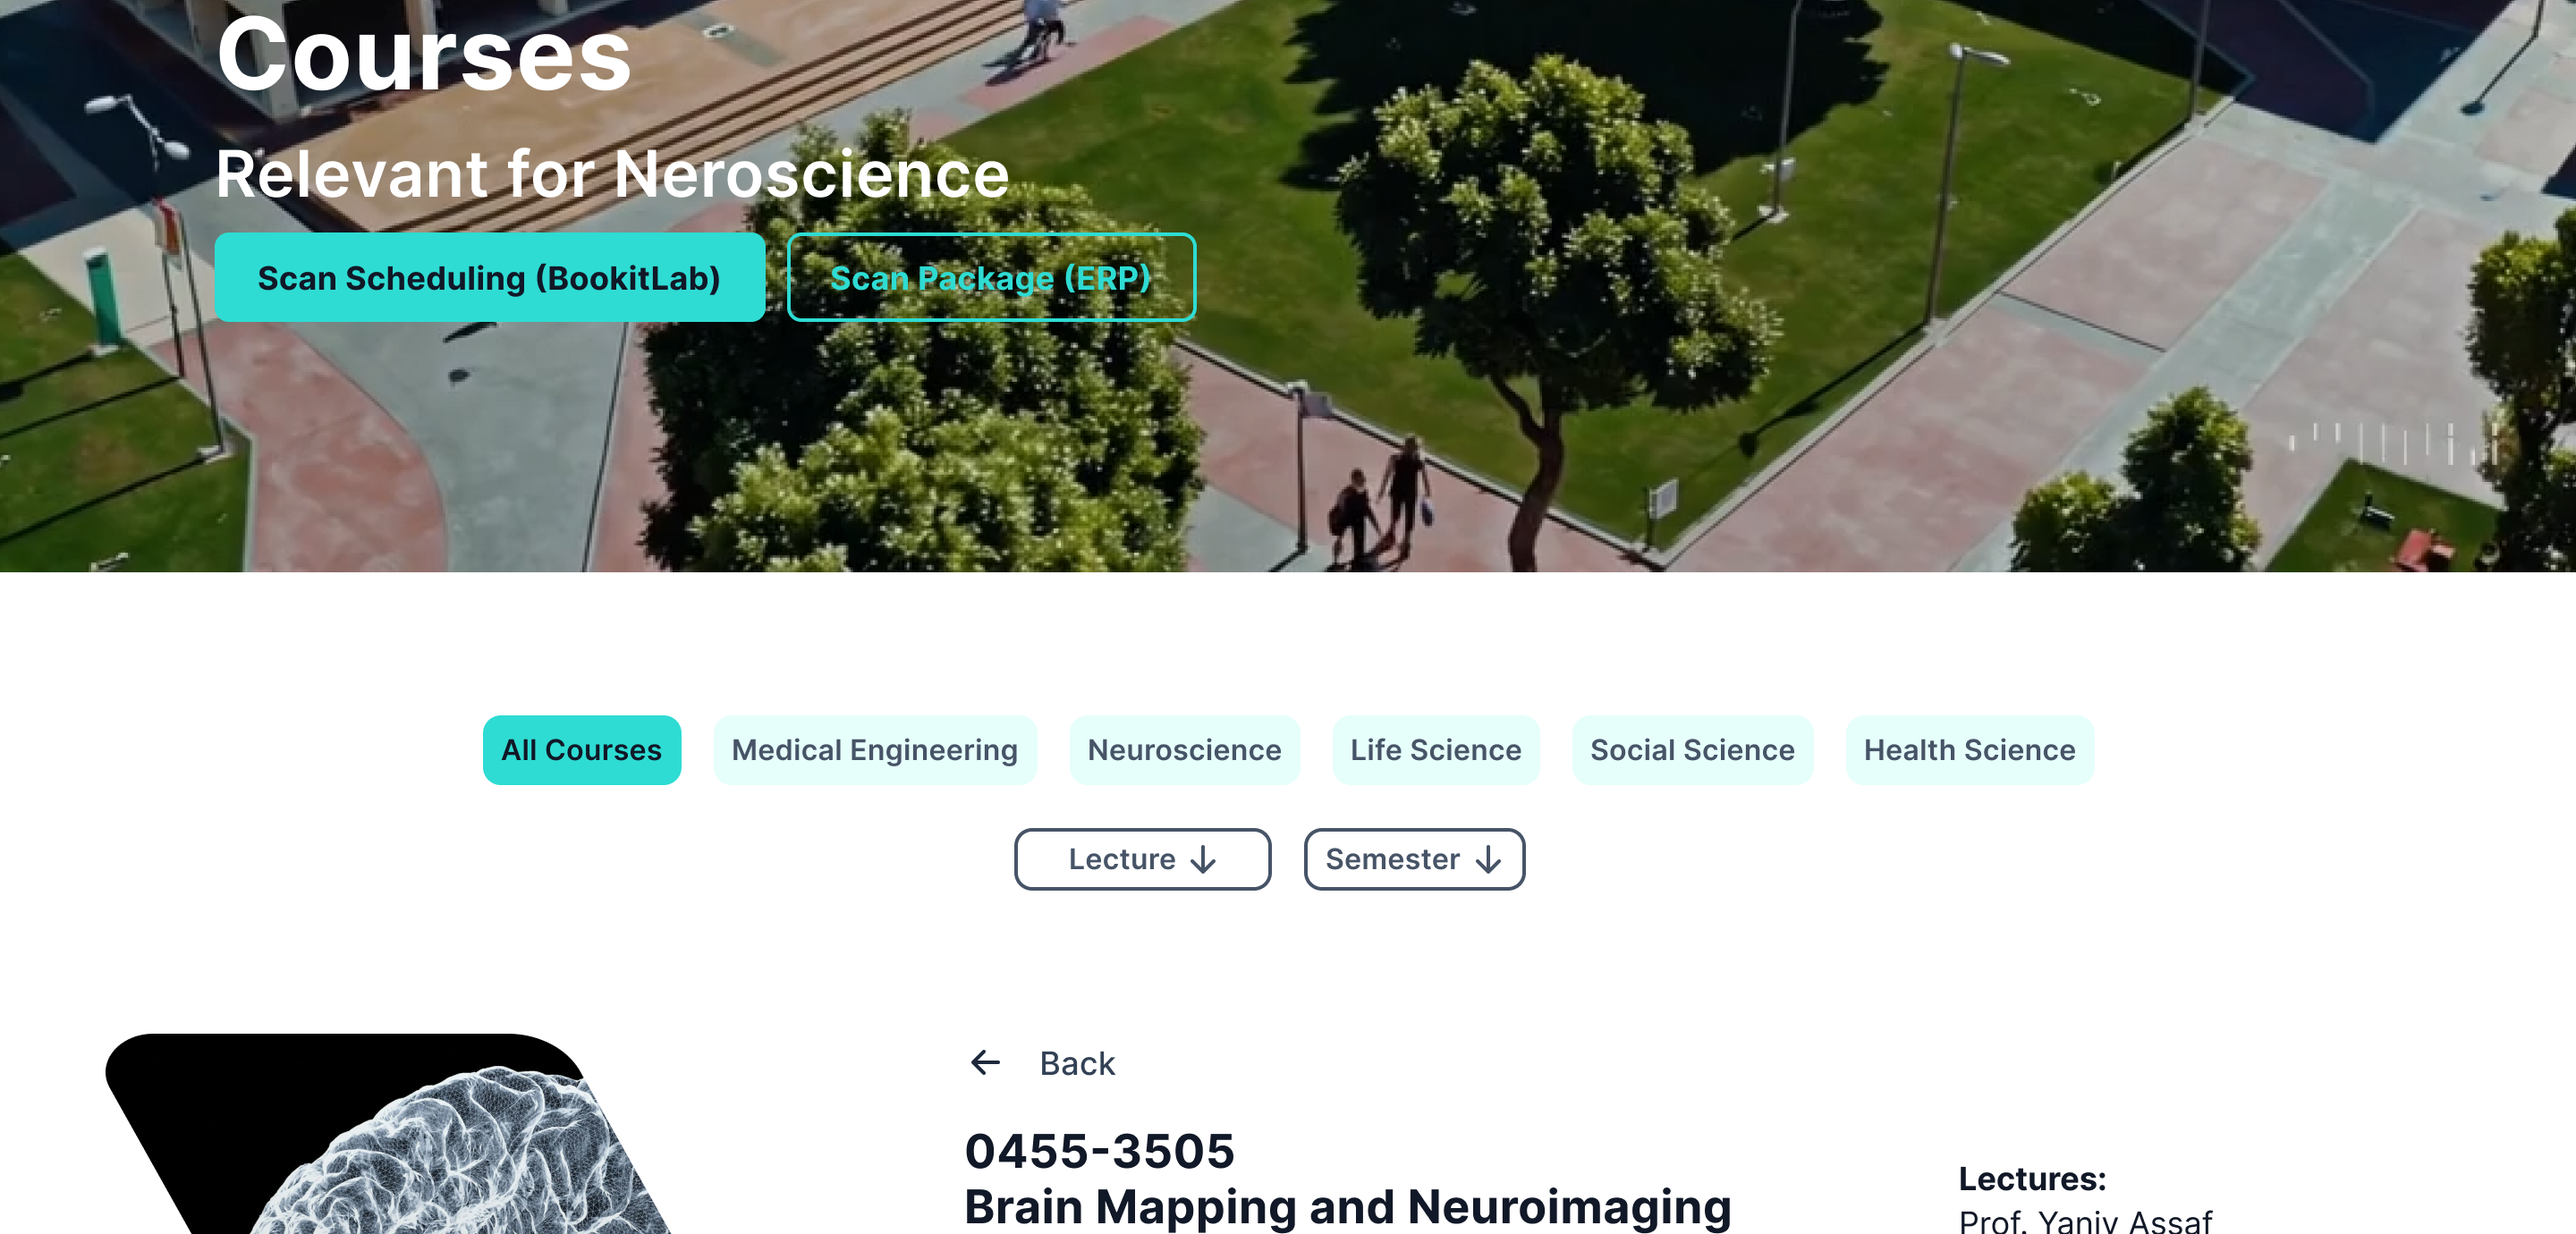
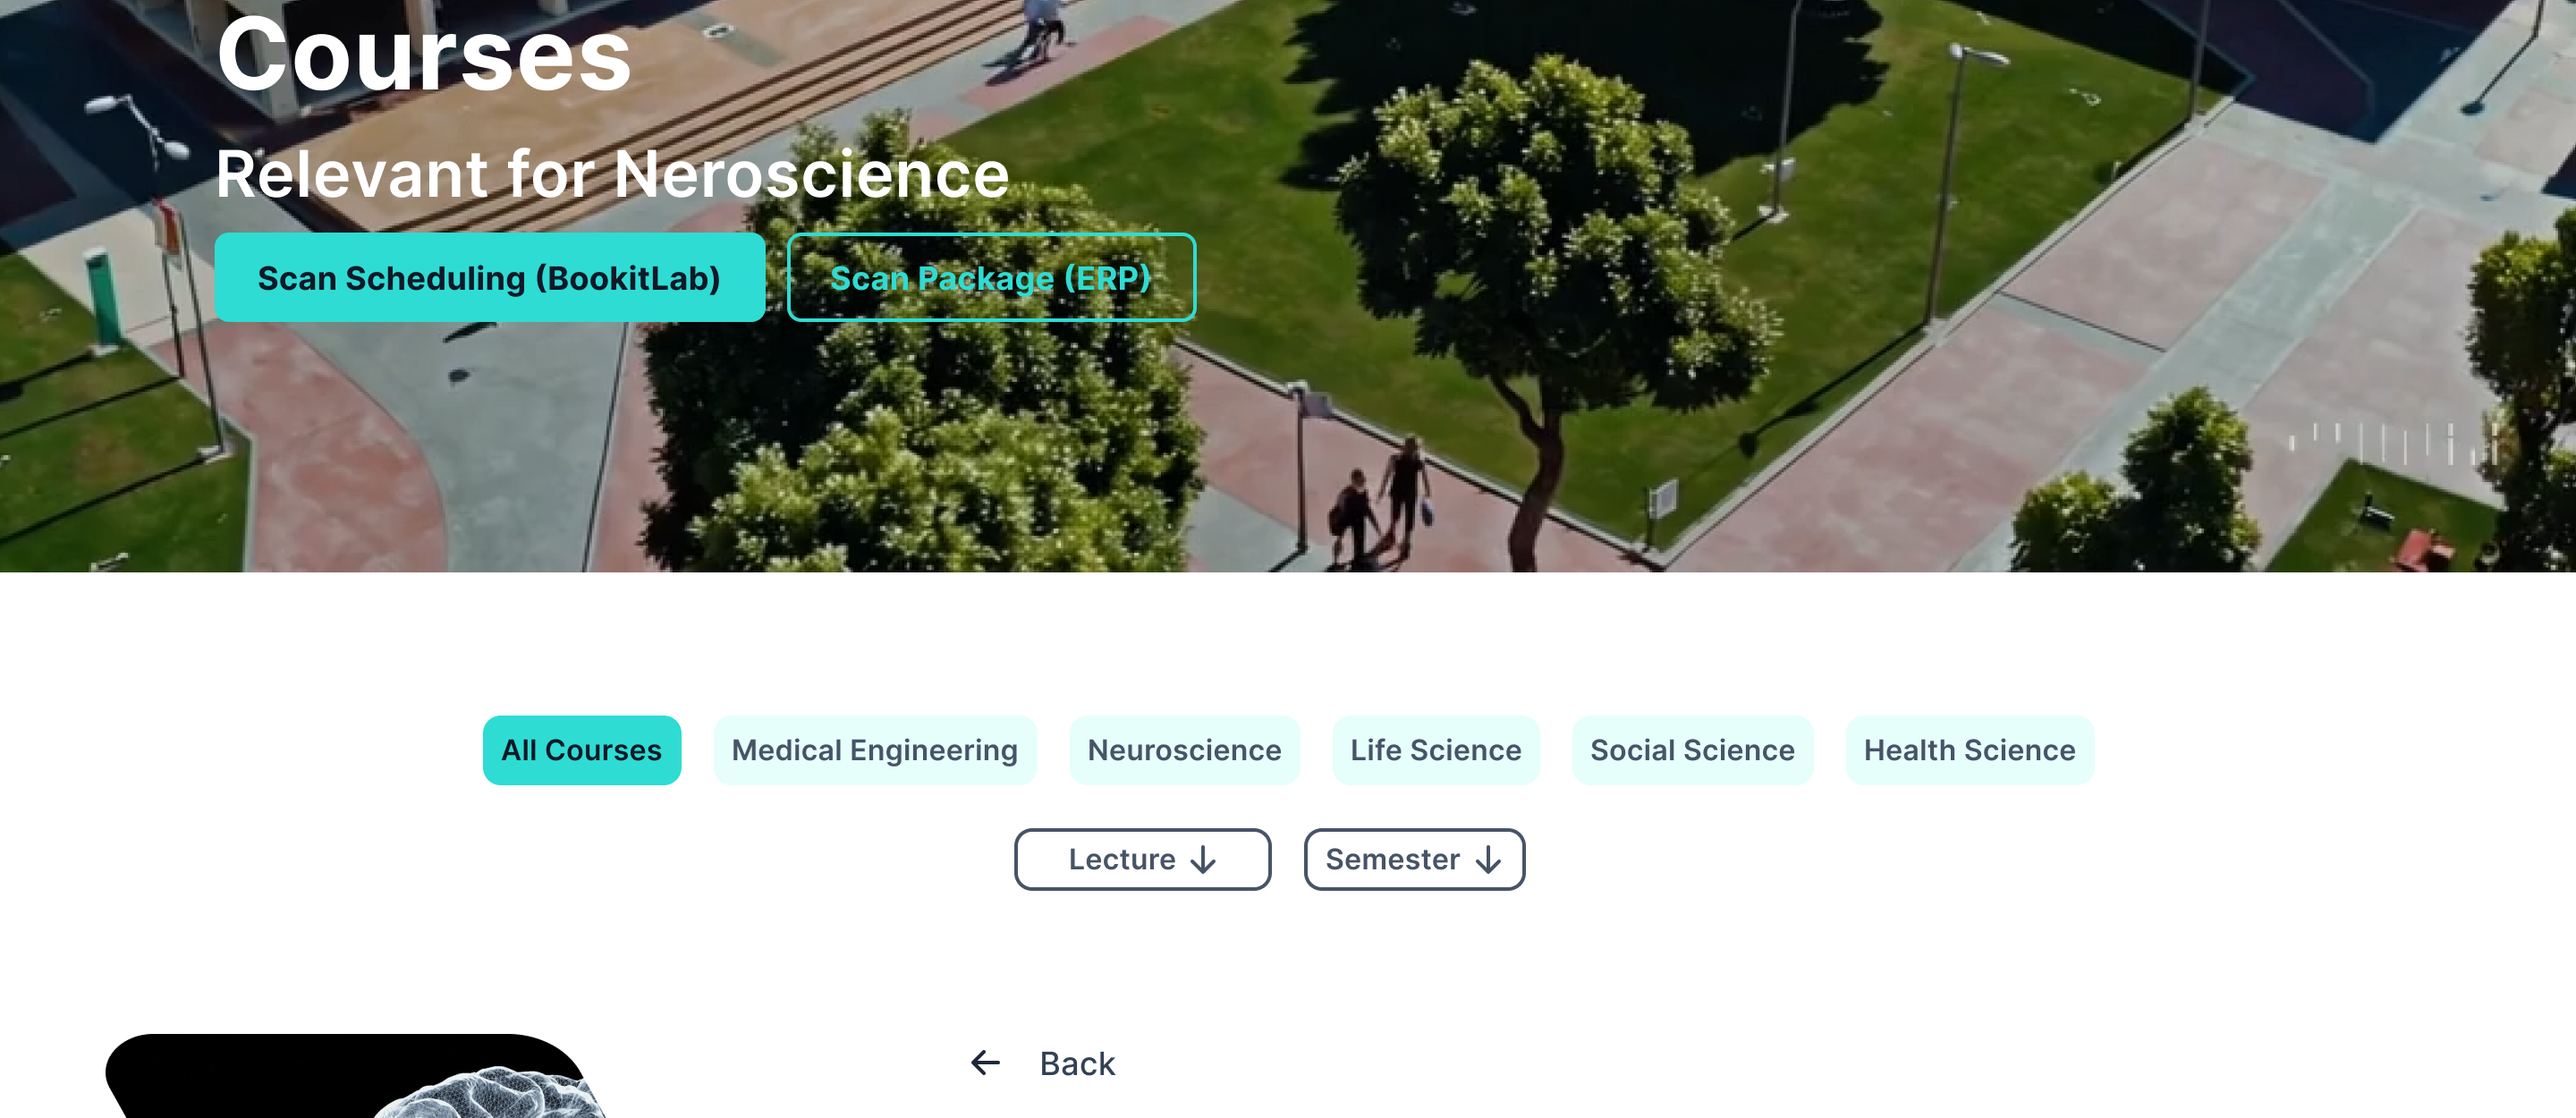
MRI Center: fix courses-figma truncation, add corrected courses-desktop (#72)
* MRI Center: fix mri-courses-figma.png truncation (reapply from #69)

PR #69 fixed this (cropped 1380px -> 1250px to remove a course-detail
panel truncated mid-glyph at the file's original bottom edge), but was
closed unmerged on the assumption mri-courses-desktop.png would
replace this image entirely. That replacement was then pulled, leaving
the original truncated file live on main with nothing fixing it.
Reapplying the verified crop and the matching .h-courses height
(230px -> 224px) now that no replacement is coming.

* MRI Center: add corrected mri-courses-desktop.png, replacing courses-wix

Corrected, shorter re-export (2880x3840, vs. the original abandoned
11584px full-page version) replaces mri-courses-wix.png as the second
image in the courses-layout pair, alongside mri-courses-figma.png.
mri-courses-wix.png is no longer referenced anywhere in the page (left
on disk, not deleted).

Bumped .h-courses 224px -> 280px to fit the new image's aspect ratio
(0.75, much closer to portrait than the old wix screenshot) alongside
mri-courses-figma.png (2.304) within the content column.

---------

diff --git a/mri-center.html b/mri-center.html
@@ -266,7 +266,7 @@
           <p style="font-family: var(--font-mono); font-size: 12px; color: var(--text-muted); margin: 24px 0 12px;">TAP TO ENLARGE</p>
           <div style="display:flex; flex-wrap:wrap; justify-content:center; align-items:flex-start; gap:24px;">
             <img class="zoomable h-courses" data-group="courses-layout" data-cap="Designed as one shared list with a single detail panel - a horizontal layout. (Course thumbnails AI-generated in Gemini.)" src="./mri-courses-figma.png" alt="Courses page, Figma design" style="display:block; border-radius:10px; border:1px solid var(--border-subtle); box-shadow:var(--shadow-lg);">
-            <img class="zoomable h-courses" data-group="courses-layout" data-cap="Wix's card system couldn't support a shared panel, so I rebuilt it as independent, vertically-expanding cards instead - the constraint changed the layout, not the content." src="./mri-courses-wix.png" alt="Courses page, live Wix build" style="display:block; border-radius:10px; border:1px solid var(--border-subtle); box-shadow:var(--shadow-lg);">
+            <img class="zoomable h-courses" data-group="courses-layout" data-cap="Wix's card system couldn't support a shared panel, so I rebuilt it as independent, vertically-expanding cards instead - the constraint changed the layout, not the content." src="./mri-courses-desktop.png" alt="Courses page, live Wix build, desktop course catalog and detail view" style="display:block; border-radius:10px; border:1px solid var(--border-subtle); box-shadow:var(--shadow-lg);">
           </div>
         </section>
 
@@ -367,7 +367,7 @@ article section[id]{scroll-margin-top:8.5rem}
 @media(max-width:900px){.h-onboarding{height:auto;width:100%;max-width:320px}}
 .h-system{height:204px;width:auto;max-width:100%}
 @media(max-width:900px){.h-system{height:auto;width:100%;max-width:320px}}
-.h-courses{height:230px;width:auto;max-width:100%}
+.h-courses{height:280px;width:auto;max-width:100%}
 @media(max-width:900px){.h-courses{height:auto;width:100%;max-width:320px}}
 #lb{position:fixed;inset:0;background:#000;display:none;align-items:center;justify-content:center;flex-direction:column;z-index:9999;padding:24px}
 #lb.on{display:flex}
